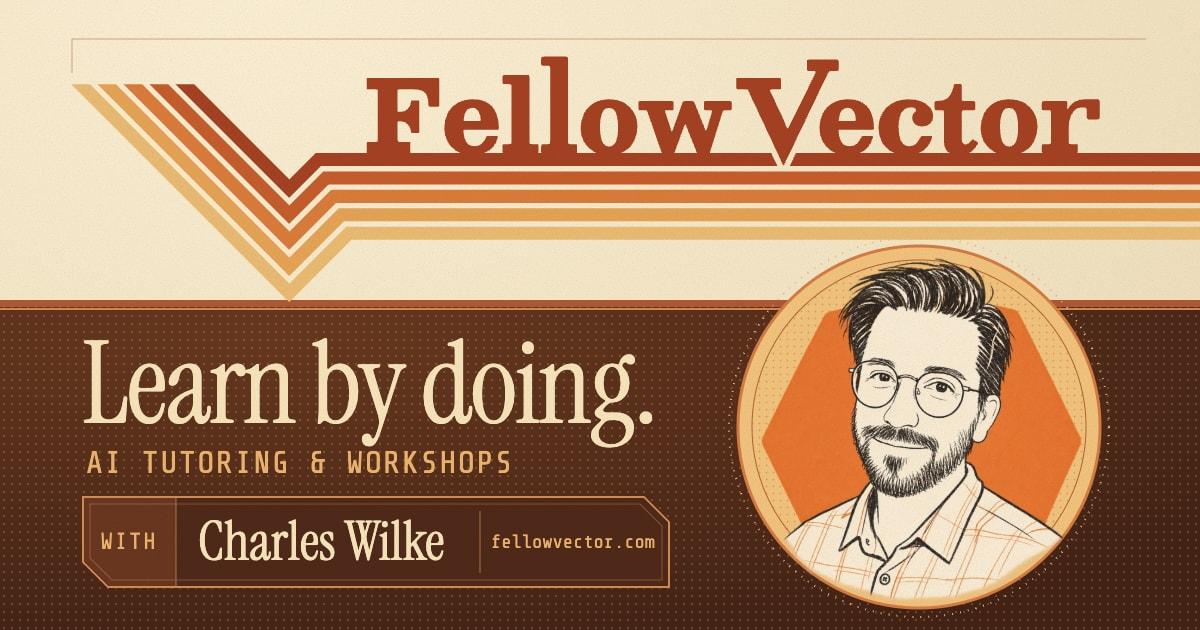
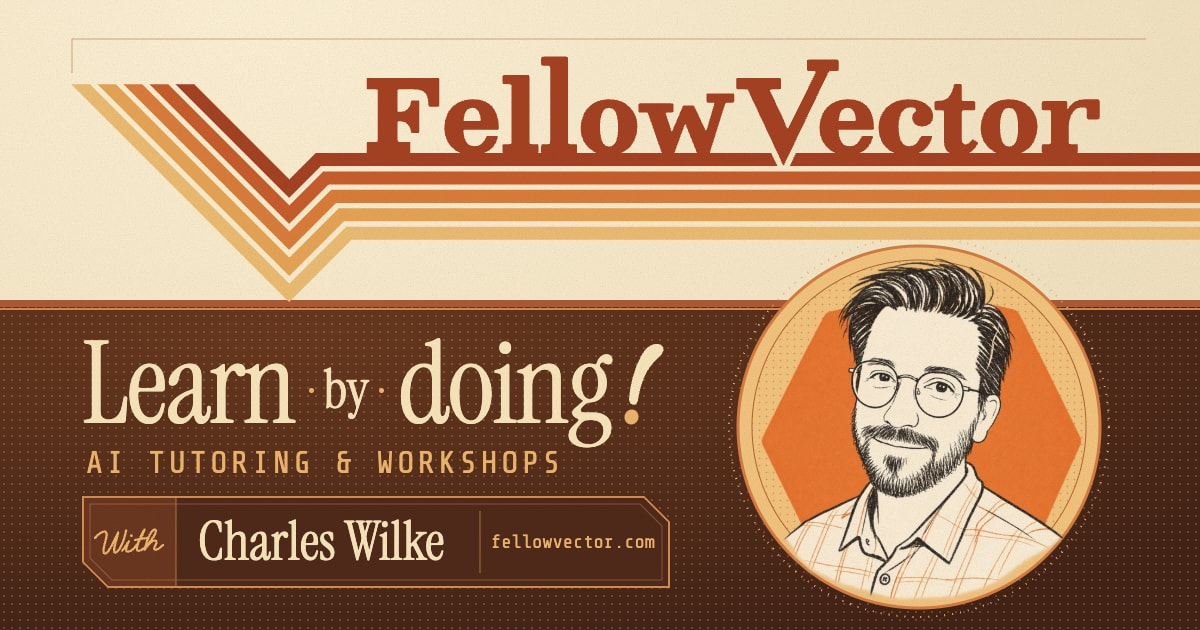
Refresh the link preview and refine the wordmark serif

Changed region(s): [[0.0925, 0.5429, 0.555, 0.754], [0.5242, 0.1508, 0.6167, 0.181], [0.0617, 0.8444, 0.1542, 0.8746]]

diff --git a/scripts/og-template.html b/scripts/og-template.html
@@ -49,15 +49,40 @@
     }
     .offer { position: absolute; top: 335px; left: 82px; }
     .offer h1 {
+      display: flex;
+      align-items: center;
+      gap: 14px;
       margin: 0;
       font: 114px/.86 var(--serif);
       letter-spacing: -.018em;
+    }
+    .offer-connector {
+      display: inline-flex;
+      align-items: center;
+      gap: 10px;
+      font-size: 54px;
+      line-height: 1;
+      letter-spacing: 0;
+      transform: translateY(6px);
+    }
+    .offer-connector::before,
+    .offer-connector::after {
+      content: "";
+      width: 5px;
+      height: 5px;
+      border-radius: 50%;
+      background: var(--amber);
+    }
+    .offer-exclamation {
+      margin-left: 4px;
+      overflow: visible;
+      vertical-align: -1px;
     }
     .offer p {
       margin: 15px 0 0 4px;
       color: var(--amber);
       font: 31px/1 var(--mono);
-      letter-spacing: .06em;
+      letter-spacing: .13em;
       text-transform: uppercase;
     }
     .byline {
@@ -73,10 +98,9 @@
     }
     .byline-frame { position: absolute; inset: 0; width: 100%; height: 100%; }
     .byline span { position: relative; }
-    .byline-prefix, .byline-url { color: var(--amber); text-align: center; }
-    .byline-prefix { font: 23px/1 var(--mono); letter-spacing: .08em; text-transform: uppercase; }
+    .byline-prefix { position: relative; justify-self: center; color: var(--amber); }
     .byline-name { padding-left: 22px; font: 54px/1 var(--serif); }
-    .byline-url { padding-right: 4px; font: 19px/1 var(--mono); }
+    .byline-url { padding-right: 4px; color: var(--amber); text-align: center; font: 19px/1 var(--mono); }
     .portrait {
       position: absolute;
       top: 232px;
@@ -120,7 +144,14 @@
       <path fill="var(--stripe-5)" d="M603.5 134.5H635V141.5H603.5Z"/>
     </svg>
     <div class="offer">
-      <h1>Learn by doing.</h1>
+      <h1 aria-label="Learn by doing!">
+        <span>Learn</span>
+        <span class="offer-connector">by</span>
+        <span>doing<svg class="offer-exclamation" width="54" height="80" viewBox="0 0 54 80" aria-hidden="true">
+          <path fill="currentColor" d="M14 55C15 41 19 25 26 12C30 5 34 1 40 0C46 -1 50 3 48 8C47 11 43 14 39 18C29 29 25 43 23 56C22 63 14 62 14 55Z"/>
+          <ellipse cx="16.5" cy="73" rx="7" ry="7.5" transform="rotate(18 16.5 73)" fill="var(--amber)"/>
+        </svg></span>
+      </h1>
       <p>AI Tutoring &amp; Workshops</p>
     </div>
     <p class="byline">
@@ -130,7 +161,15 @@
         <path d="M7 8H558L580 30V84H30L8 62V8Z" fill="none" stroke="#dc9a61" opacity=".38"/>
         <path d="M94 1V91M398 15V77" fill="none" stroke="#d68e51" opacity=".72"/>
       </svg>
-      <span class="byline-prefix">With</span>
+      <svg class="byline-prefix" width="74" height="42" viewBox="0 0 76 42" role="img" aria-label="With">
+        <g fill="none" stroke="currentColor" stroke-width="2.25" stroke-linecap="round" stroke-linejoin="round">
+          <path d="M3 17C8 11 14 8 15 12C16 16 9 32 13 33C17 34 24 16 27 11C26 17 20 32 24 32C28 32 34 17 35 9"/>
+          <path d="M31 30C33 28 36 23 38 20C36 25 33 31 37 31C40 31 43 28 46 24"/>
+          <path d="M46 24C49 20 53 11 54 8C51 13 46 24 46 28C46 32 51 30 56 25M44 19C48 18 53 17 57 17"/>
+          <path d="M56 25C61 20 68 9 65 8C61 7 56 20 54 29C59 21 64 18 66 20C68 22 61 29 65 29C68 29 71 26 73 24"/>
+        </g>
+        <circle cx="40.5" cy="14.5" r="1.4" fill="currentColor"/>
+      </svg>
       <span class="byline-name">Charles Wilke</span>
       <span class="byline-url">fellowvector.com</span>
     </p>
